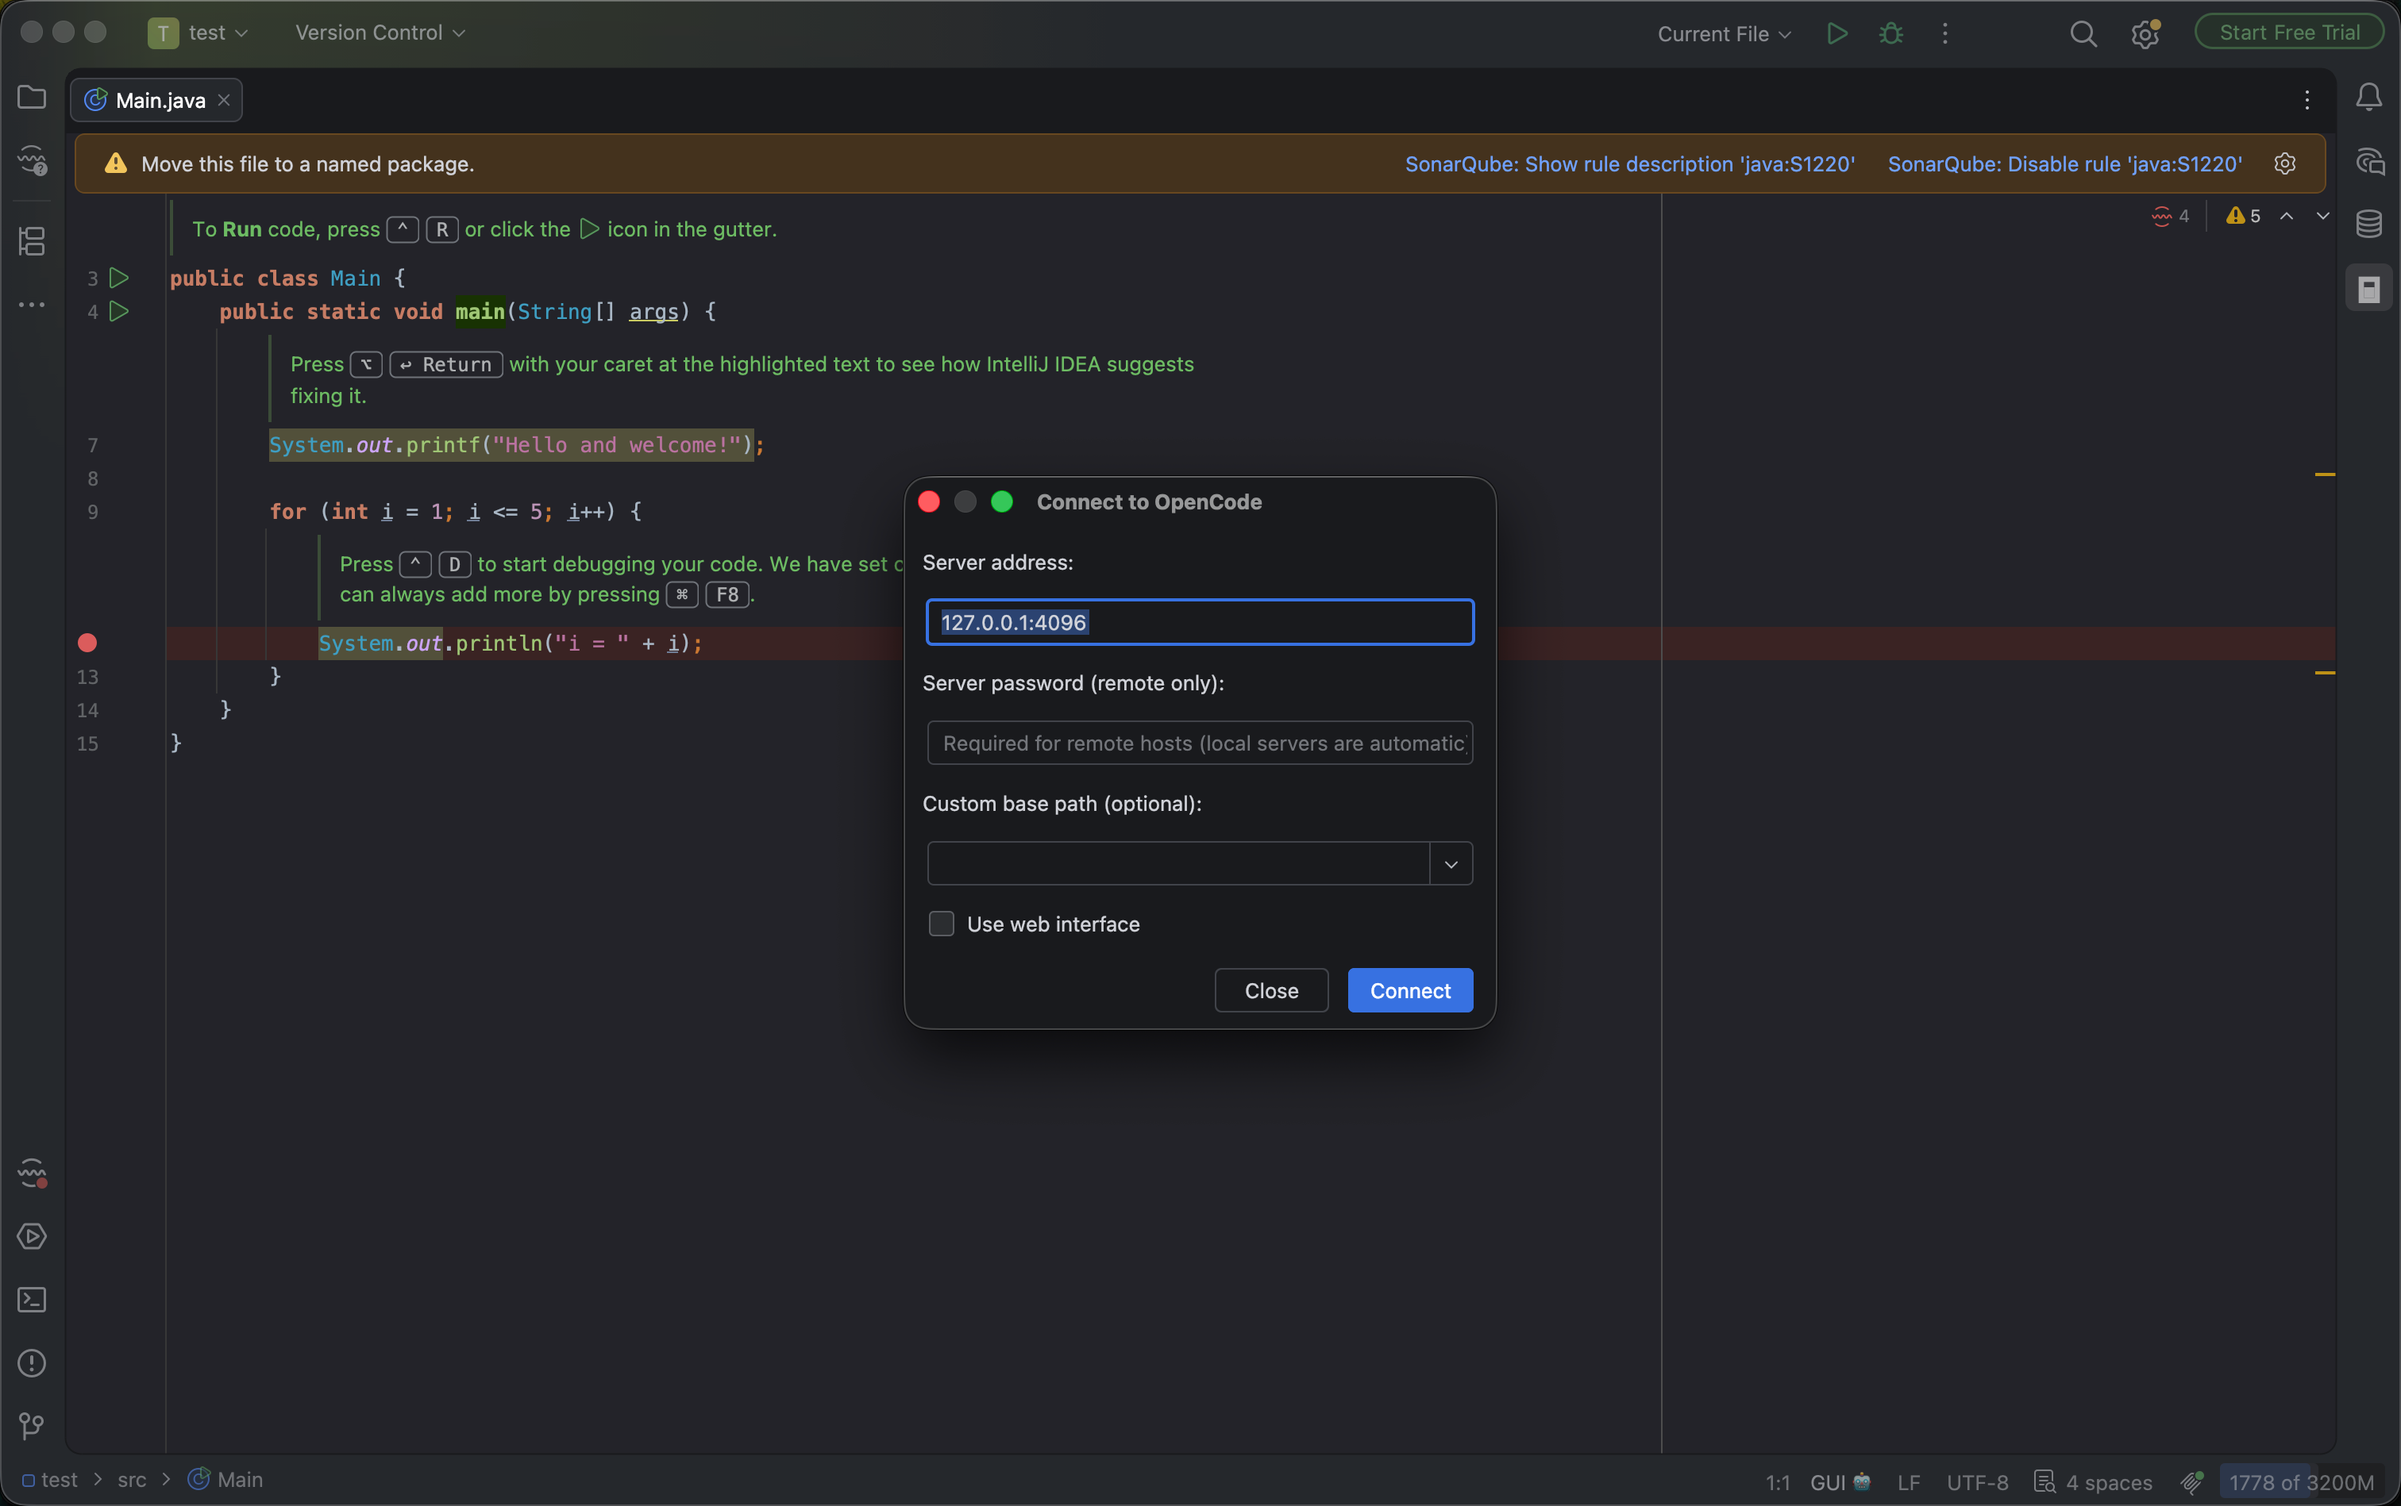
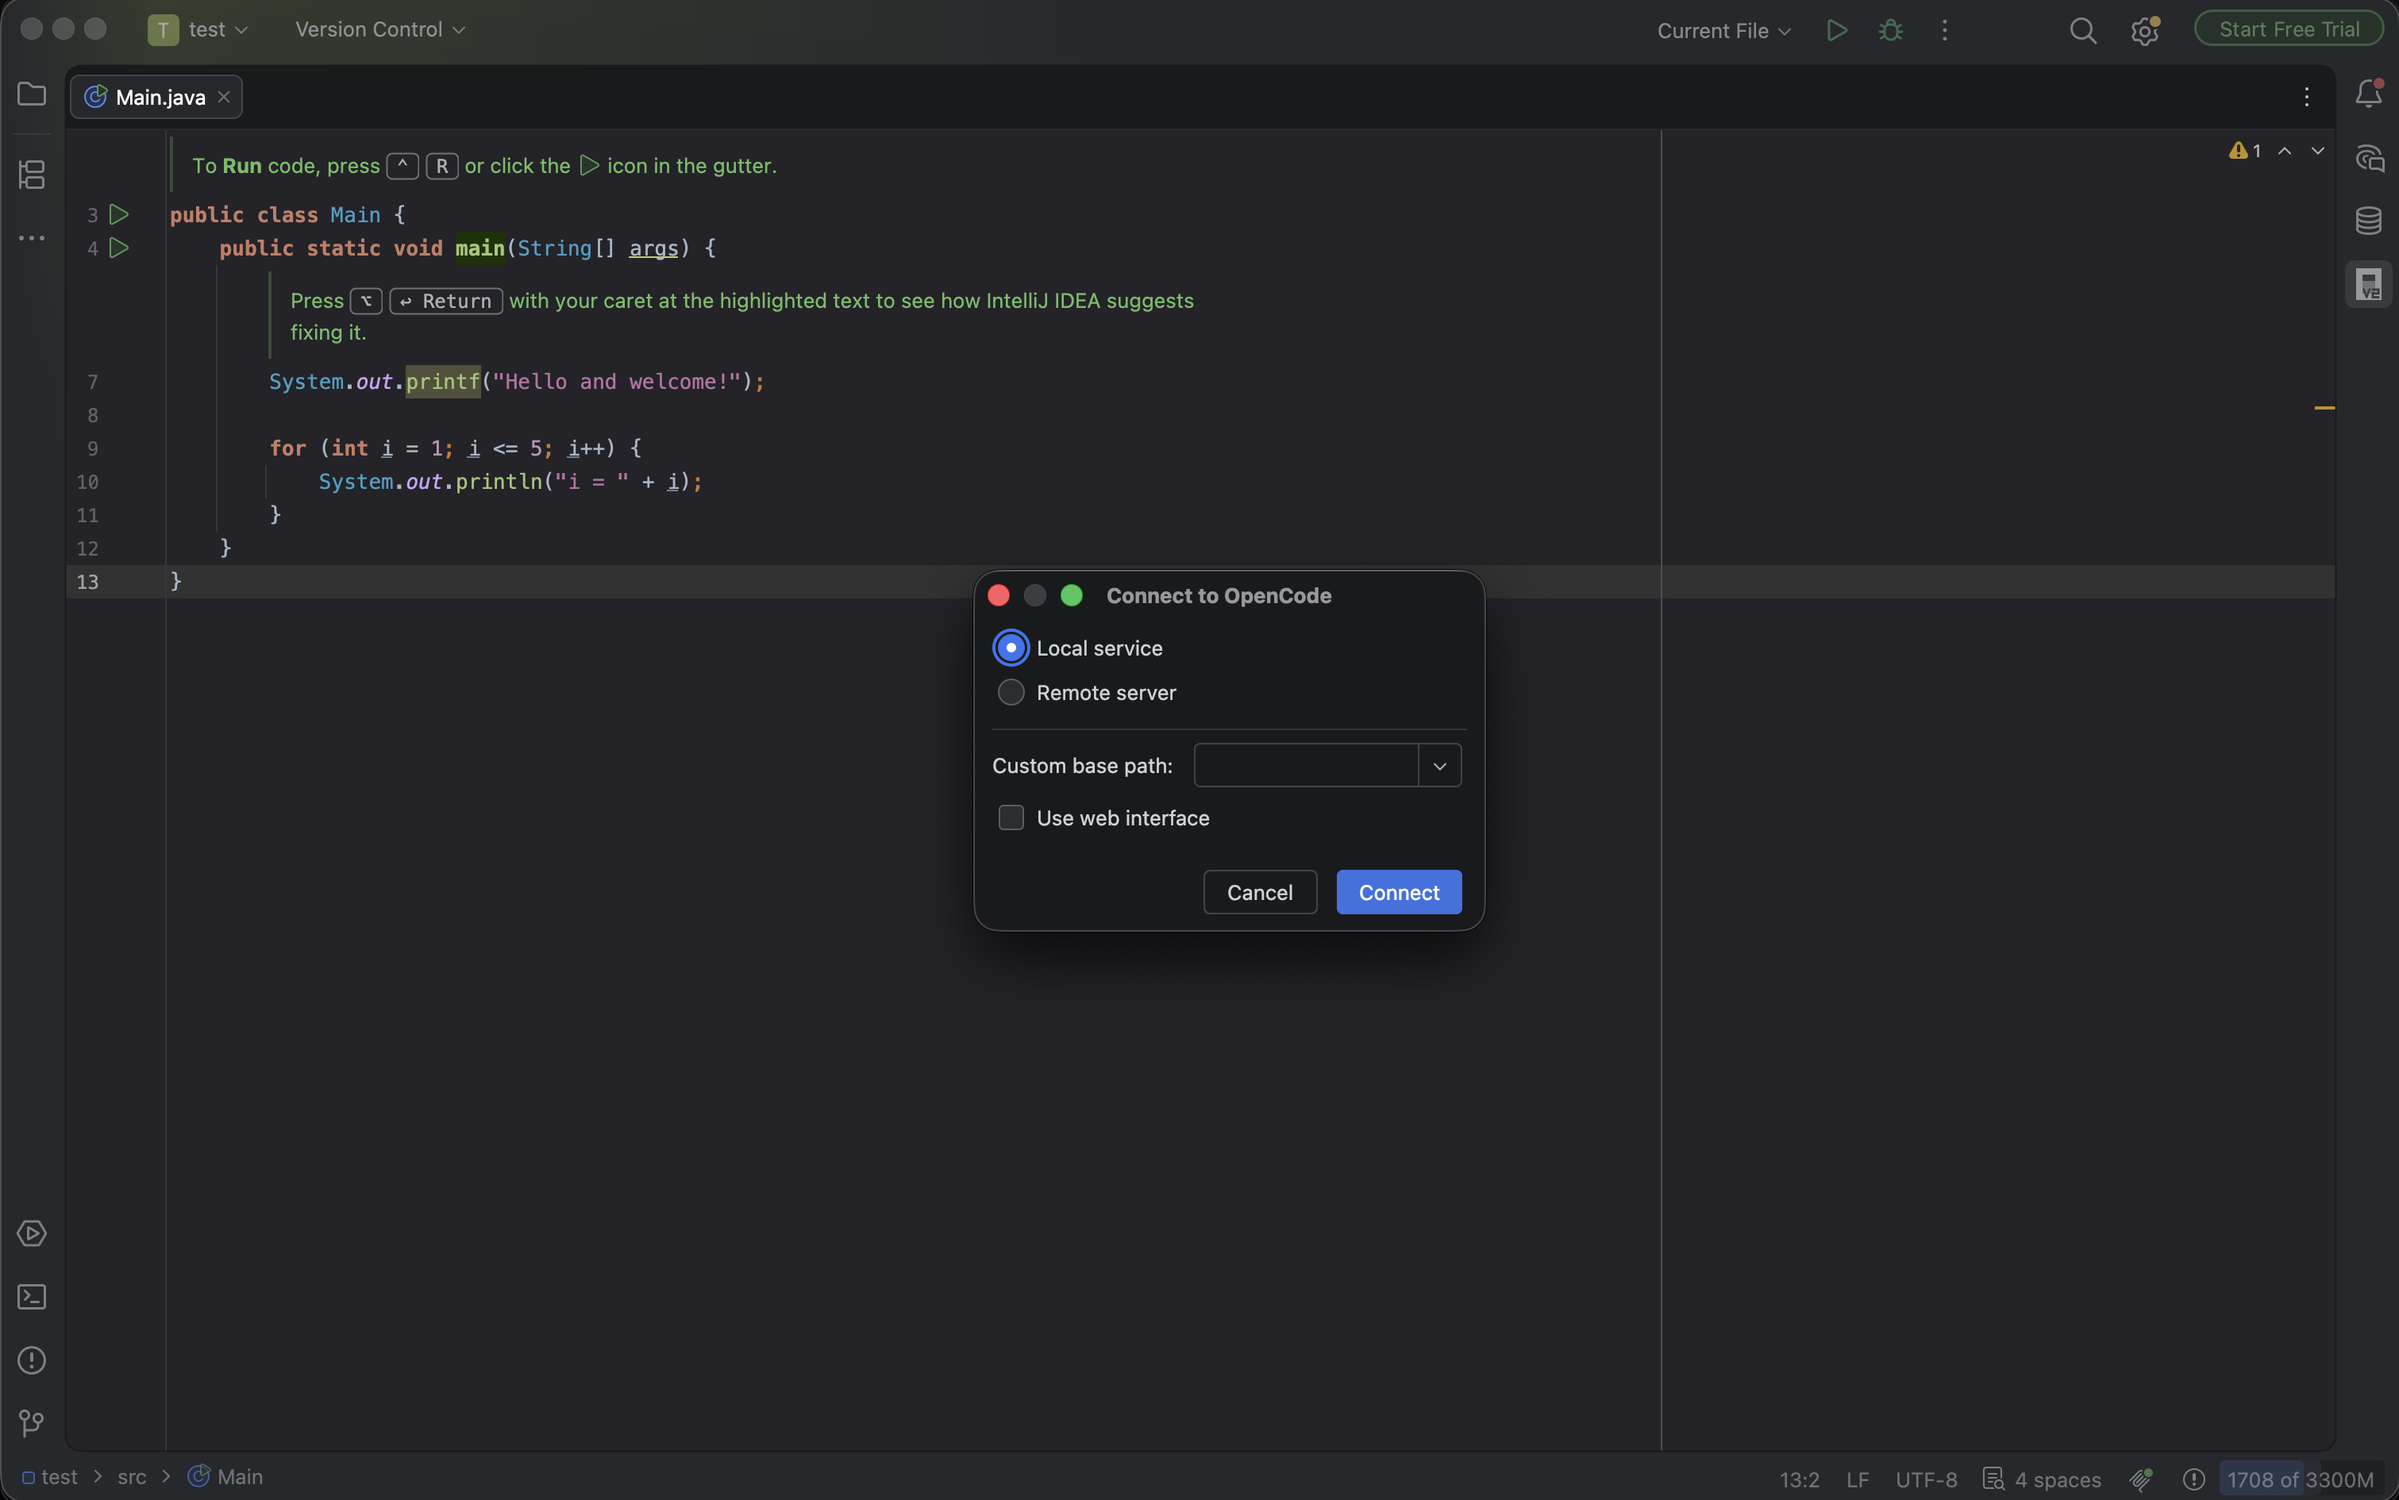
Update the README screenshots for the local and remote modes
- Refresh the step 1 screenshot with the local-first dialog

- Add a screenshot of the remote server mode fields

diff --git a/README.md b/README.md
@@ -96,7 +96,8 @@ Press `Cmd+\` (Mac) or `Ctrl+\` (Win/Linux) to open the connection dialog. Two m
 
 *Your last connection settings (address, mode, password) are remembered automatically.*
 
-![Step 1: Launch OpenCode](images/1.png)
+![Step 1: Launch OpenCode With Local Service](images/1.png)
+![Step 1-1: Launch OpenCode With Remote Server](images/1-2.png)
 
 ### 2. Send Code Context to OpenCode
 
